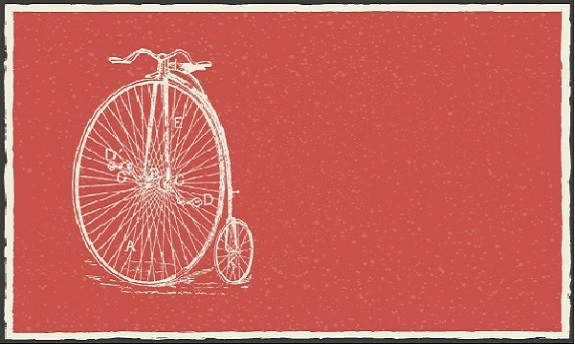
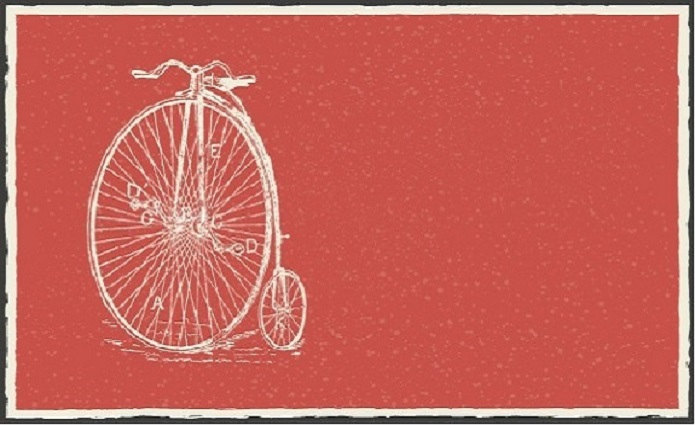
fix margin

diff --git a/client/src/components/invitationCard/Card02.js b/client/src/components/invitationCard/Card02.js
@@ -1,19 +1,19 @@
-import React from "react";
+import React from 'react'
 
 const Card04 = props => (
   <div id='saveArea' style={{ textAlign: 'center',
-	  height: '425px',
-	  width: '710px',
-	  fontFamily: props.titleFontType,
-	  backgroundImage: props.background,
-	  backgroundRepeat: 'no-repeat',
-	  backgroundSize: 'cover'}}>
-	  <p style={{ color: 'white', fontSize: props.titleFontSize, padding: '10% 0 5% 35%' }}> {props.title} </p>
-	  <p style={{ color: 'white', fontSize: '22px', padding: '0 0 0 36%' }}> {props.date} </p>
-	  <p style={{ color: 'white', fontSize: '15px', padding: '0 0 5% 36%' }}> {props.time} </p>
-	  <p style={{ color: 'white', fontSize: '18px', padding: '0 0 0 36%' }}> {props.address1} </p>
-	  <p style={{ color: 'white', fontSize: '18px', padding: '0 0 0 36%' }}> {props.address2} </p>
-	</div>
-);
+    height: '425px',
+    width: '695px',
+    fontFamily: props.titleFontType,
+    backgroundImage: props.background,
+    backgroundRepeat: 'no-repeat',
+    backgroundSize: 'cover'}}>
+    <p style={{ color: 'white', fontSize: props.titleFontSize, padding: '10% 0 5% 35%' }}> {props.title} </p>
+    <p style={{ color: 'white', fontSize: '22px', padding: '0 0 0 36%' }}> {props.date} </p>
+    <p style={{ color: 'white', fontSize: '15px', padding: '0 0 5% 36%' }}> {props.time} </p>
+    <p style={{ color: 'white', fontSize: '18px', padding: '0 0 0 36%' }}> {props.address1} </p>
+    <p style={{ color: 'white', fontSize: '18px', padding: '0 0 0 36%' }}> {props.address2} </p>
+  </div>
+)
 
-export default Card04;
+export default Card04

diff --git a/client/src/components/invitationCard/Card03.js b/client/src/components/invitationCard/Card03.js
@@ -1,19 +1,19 @@
-import React from "react";
+import React from 'react'
 
 const Card03 = props => (
   <div id='saveArea' style={{
-	  height: '425px',
-	  width: '710px',
-	  fontFamily: props.titleFontType,
-	  backgroundImage: props.background,
-	  backgroundRepeat: 'no-repeat',
-	  backgroundSize: 'cover'}}>
-	  <p style={{ color: 'white', fontSize: props.titleFontSize, padding: '10% 0 5% 5%' }}> {props.title} </p>
-	  <p style={{ color: 'white', fontSize: '22px', padding: '0 0 0 17%' }}> {props.date} </p>
-	  <p style={{ color: 'white', fontSize: '15px', padding: '0 0 0 17%' }}> {props.time} </p>
-	  <p style={{ color: 'white', fontSize: '18px', padding: '0 0 0 17%' }}> {props.address1} </p>
-	  <p style={{ color: 'white', fontSize: '18px', padding: '0 0 0 17%' }}> {props.address2} </p>
-	</div>
-);
+    height: '425px',
+    width: '695px',
+    fontFamily: props.titleFontType,
+    backgroundImage: props.background,
+    backgroundRepeat: 'no-repeat',
+    backgroundSize: 'cover'}}>
+    <p style={{ color: 'white', fontSize: props.titleFontSize, padding: '10% 0 5% 5%' }}> {props.title} </p>
+    <p style={{ color: 'white', fontSize: '22px', padding: '0 0 0 17%' }}> {props.date} </p>
+    <p style={{ color: 'white', fontSize: '15px', padding: '0 0 0 17%' }}> {props.time} </p>
+    <p style={{ color: 'white', fontSize: '18px', padding: '0 0 0 17%' }}> {props.address1} </p>
+    <p style={{ color: 'white', fontSize: '18px', padding: '0 0 0 17%' }}> {props.address2} </p>
+  </div>
+)
 
-export default Card03;
+export default Card03

diff --git a/client/src/components/invitationCard/Card01.js b/client/src/components/invitationCard/Card01.js
@@ -1,19 +1,19 @@
-import React from "react";
+import React from 'react'
 
 const Card01 = props => (
   <div id='saveArea' style={{ textAlign: 'center',
-	  height: '425px',
-	  width: '710px',
-	  fontFamily: props.titleFontType,
-	  backgroundImage: props.background,
-	  backgroundRepeat: 'no-repeat',
-	  backgroundSize: 'cover'}}>
-	  <p style={{ color: 'white', fontSize: props.titleFontSize, padding: '14% 0 0 0' }}> {props.title} </p>
-	  <p style={{ color: 'white', fontSize: '22px' }}> {props.date} </p>
-	  <p style={{ color: 'white', fontSize: '15px' }}> {props.time} </p>
-	  <p style={{ color: 'white', fontSize: '18px' }}> {props.address1} </p>
-	  <p style={{ color: 'white', fontSize: '18px' }}> {props.address2} </p>
-	</div>
-);
+    height: '425px',
+    width: '695px',
+    fontFamily: props.titleFontType,
+    backgroundImage: props.background,
+    backgroundRepeat: 'no-repeat',
+    backgroundSize: 'cover'}}>
+    <p style={{ color: 'white', fontSize: props.titleFontSize, padding: '14% 0 0 0' }}> {props.title} </p>
+    <p style={{ color: 'white', fontSize: '22px' }}> {props.date} </p>
+    <p style={{ color: 'white', fontSize: '15px' }}> {props.time} </p>
+    <p style={{ color: 'white', fontSize: '18px' }}> {props.address1} </p>
+    <p style={{ color: 'white', fontSize: '18px' }}> {props.address2} </p>
+  </div>
+)
 
-export default Card01;
+export default Card01

diff --git a/client/src/pages/invitation/Invitation.js b/client/src/pages/invitation/Invitation.js
@@ -135,7 +135,7 @@ class Invitation extends Component {
         .then((canvas) => {
           const imgData = canvas.toDataURL('image/png')
           const pdf = new JSPDF()
-          pdf.addImage(imgData, 'JPEG', 28, 20)
+          pdf.addImage(imgData, 'JPEG', 13, 20)
           pdf.save('invitation.pdf')
         })
   }
@@ -182,7 +182,7 @@ class Invitation extends Component {
   };
 
   render () {
-    const { background, titleFontType, selectedDate, selectedTime, title, date, time, address1, address2 } = this.state
+    const { background, titleFontType, selectedDate, selectedTime } = this.state
     const { classes } = this.props
 
     return (
